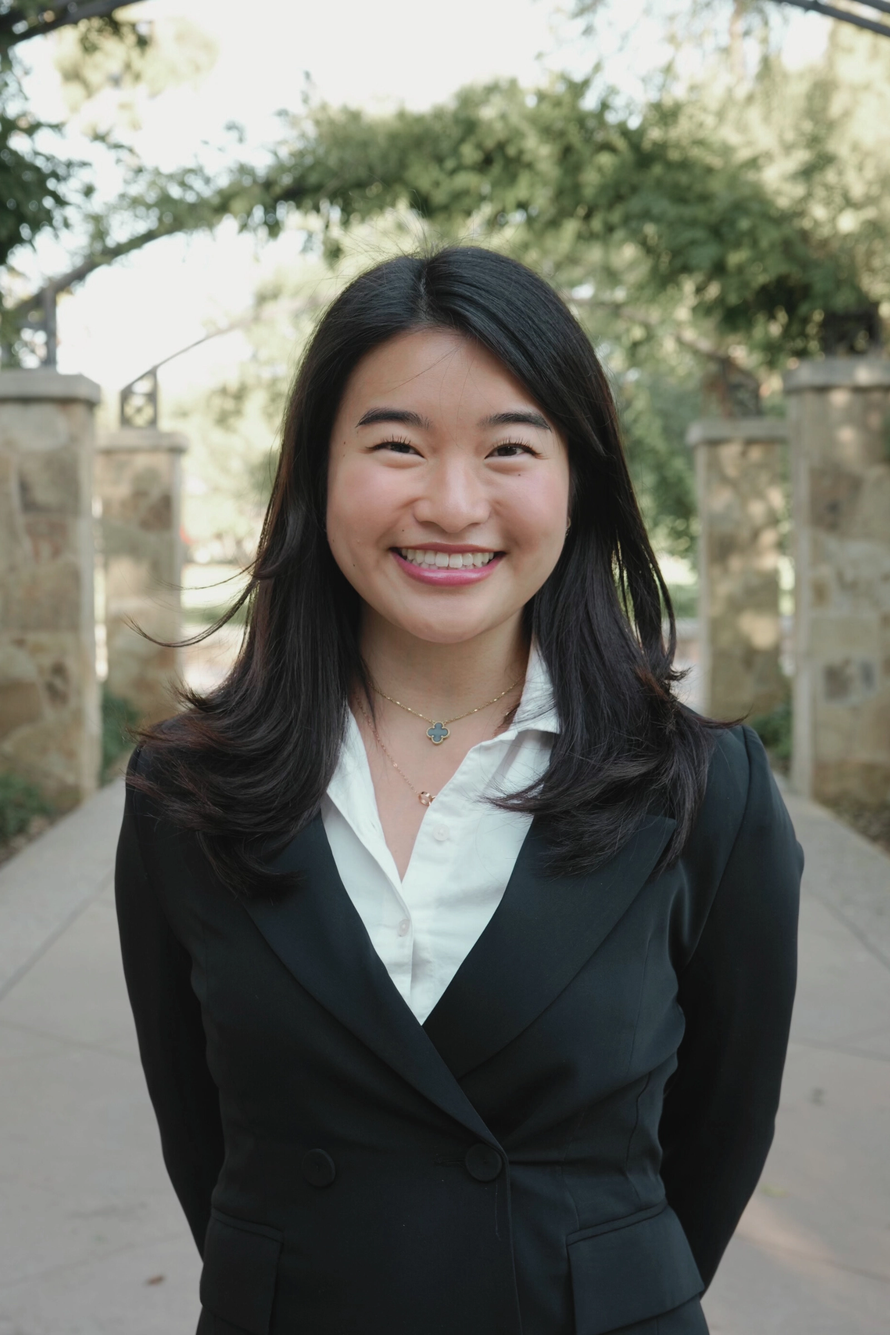
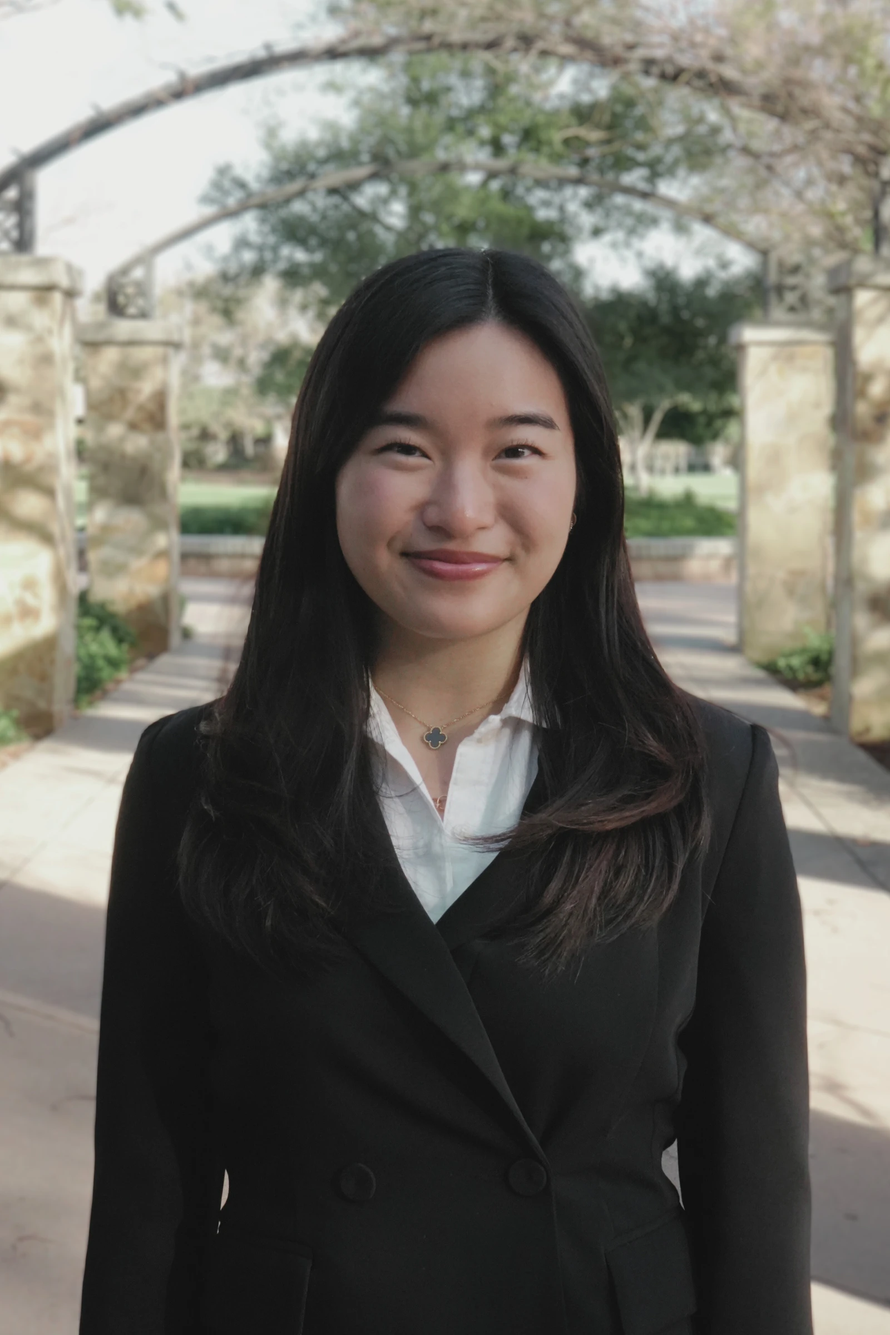
Added updated meet-us page pictures

diff --git a/src/Assets/headshot.js b/src/Assets/headshot.js
@@ -39,6 +39,18 @@ import MaxVano from "./ActiveHeadshots/Max Vano.webp";
 import MinaNguyen from "./ActiveHeadshots/Mina Nguyen.webp";
 import PranayMach from "./ActiveHeadshots/Pranay Macherla.webp";
 import DanielVercueil from "./ActiveHeadshots/Daniel Verceil.webp";
+import TylerHo from "./ActiveHeadshots/Tyler Ho.webp";
+import TravisYen from "./ActiveHeadshots/Travis Yen.webp";
+import TommyNguyen from "./ActiveHeadshots/Tommy Nguyen.webp";
+import RyanPark from "./ActiveHeadshots/Ryan Park.webp";
+import NicoSimonian from "./ActiveHeadshots/Nico Simonian.webp";
+import MelindaDo from "./ActiveHeadshots/Melinda Do.webp";
+import LoganKim from "./ActiveHeadshots/Logan Kim.webp";
+import ErinTran from "./ActiveHeadshots/Erin Tran.webp";
+import CarlQiao from "./ActiveHeadshots/Carl Qiao.webp";
+import BrandonKoh from "./ActiveHeadshots/Brandon Koh.webp";
+import BradlyHo from "./ActiveHeadshots/Bradly Ho.webp";
+import AlexSriprathum from "./ActiveHeadshots/Alex Sriprathum.webp";
 import DefaultHeadshot from "./ActiveHeadshots/Default Headshot.webp";
 
 export const headshotHash = {
@@ -83,5 +95,17 @@ export const headshotHash = {
   "Massimo Vano": MaxVano,
   "Pranay Macherla": PranayMach,
   "Mina Nguyen": MinaNguyen,
+  "Tyler Ho": TylerHo,
+  "Travis Yen": TravisYen,
+  "Tommy Nguyen": TommyNguyen,
+  "Ryan Park": RyanPark,
+  "Nico Simonian": NicoSimonian,
+  "Melinda Do": MelindaDo,
+  "Logan Kim": LoganKim,
+  "Erin Tran": ErinTran,
+  "Carl Qiao": CarlQiao,
+  "Brandon Koh": BrandonKoh,
+  "Bradly Ho": BradlyHo,
+  "Alex Sriprathum": AlexSriprathum,
   "Default Headshot": DefaultHeadshot,
 };
